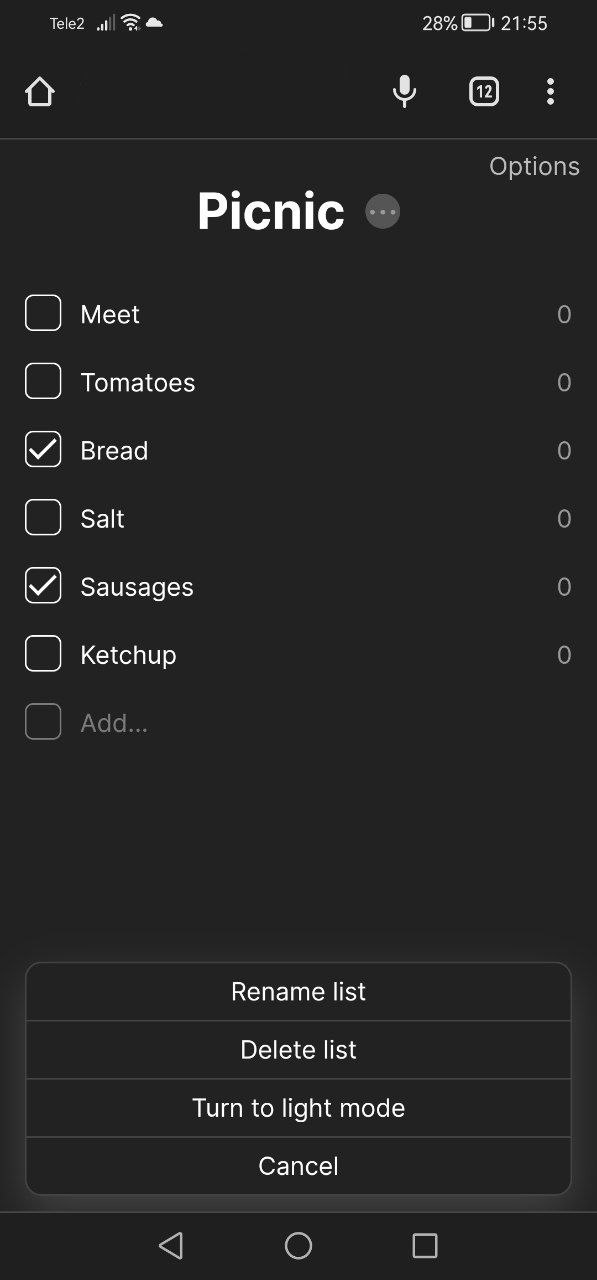
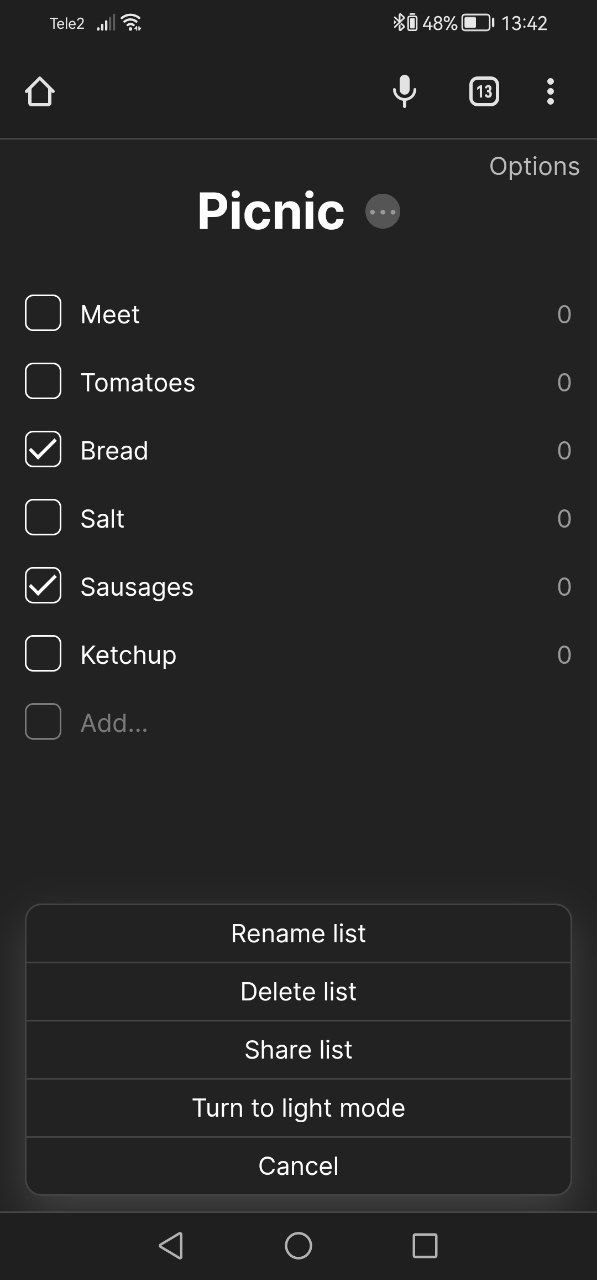
Info about list sharing (begin)

diff --git a/readme.md b/readme.md
@@ -38,6 +38,20 @@ You can clean up your list by deleting all the items marked with a tick. You wil
 
 <img src="Screenshots/readme-6.jpg" />
 
+### List sharing
+You can share your shopping list with another person. You just need to click on the "Share List" button and send a link  
+
+<table>
+  <tr>
+    <td><img src="Screenshots/readme-8.jpg" /></td>
+    <td><img src="Screenshots/readme-9.jpg" /></td>
+  </tr>
+</table>
+
+It's secure: the list is stored on the server in encrypted form, and only you and your partner have the key to the cipher
+
+<img src="Screenshots/readme-10.jpg" />
+
 ### Beautiful Dark Mode
 You can switch your interface to Dark mode
 
